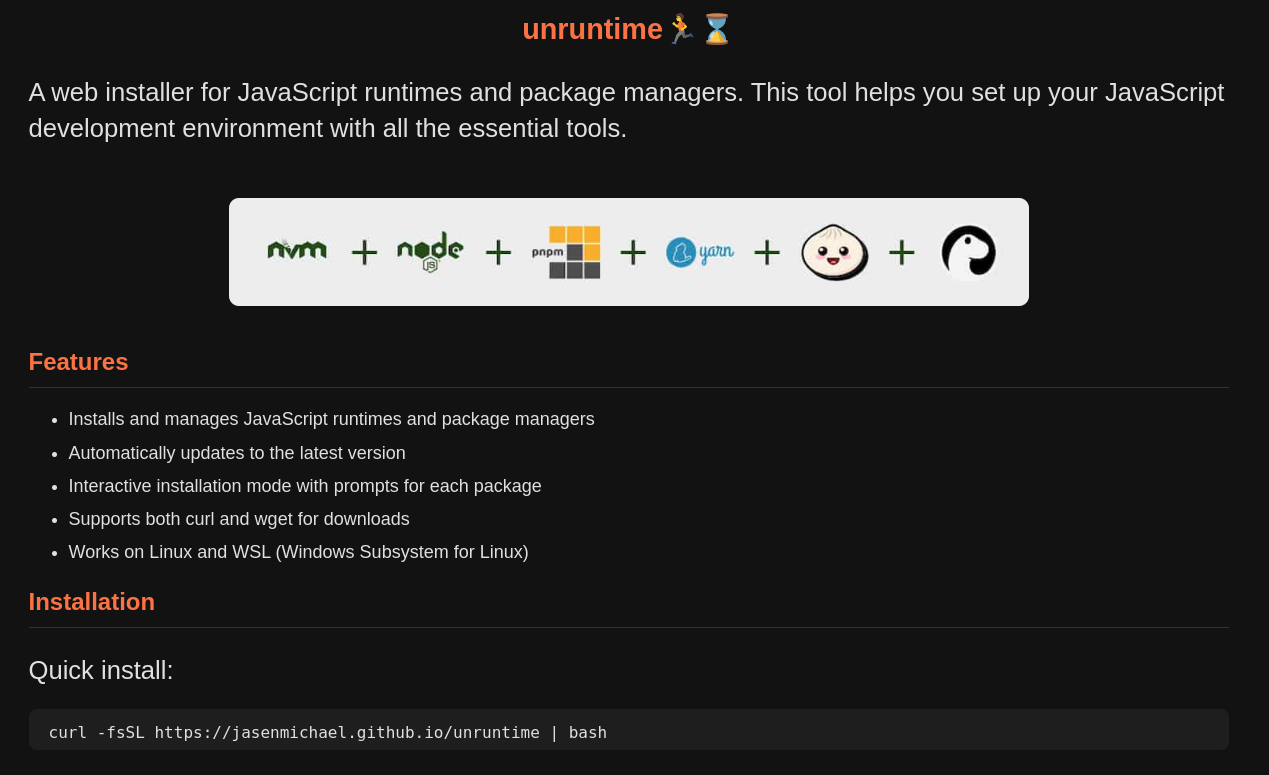
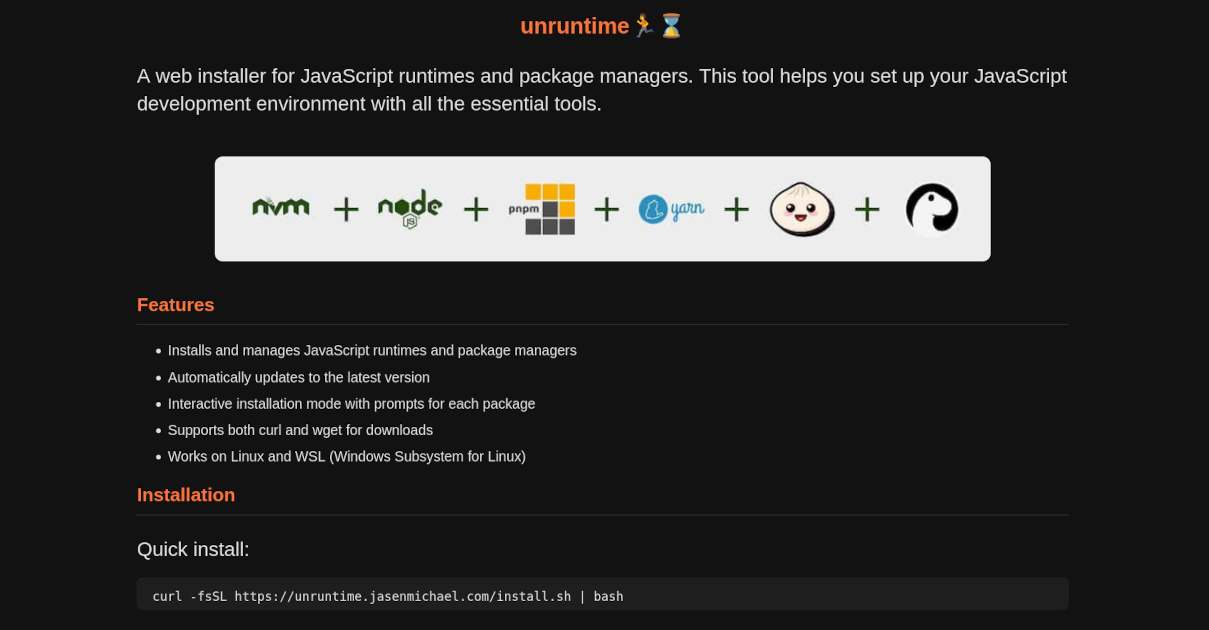
docs: update domain

diff --git a/docs/template.html b/docs/template.html
@@ -10,18 +10,18 @@
     <meta name="theme-color" content="#121212">
     
     <meta property="og:type" content="website">
-    <meta property="og:url" content="https://jasenmichael.github.io/unruntime/">
+    <meta property="og:url" content="$domain$">
     <meta property="og:title" content="unruntime - JavaScript Runtime Installer">
     <meta property="og:description" content="A web installer for JavaScript runtimes and package managers. Set up your JavaScript development environment with essential tools.">
-    <meta property="og:image" content="https://jasenmichael.github.io/unruntime/og-image.png">
+    <meta property="og:image" content="$domain$/og-image.png">
 
     <meta name="twitter:card" content="summary_large_image">
-    <meta name="twitter:url" content="https://jasenmichael.github.io/unruntime/">
+    <meta name="twitter:url" content="$domain$">
     <meta name="twitter:title" content="unruntime - JavaScript Runtime Installer">
     <meta name="twitter:description" content="A web installer for JavaScript runtimes and package managers. Set up your JavaScript development environment with essential tools.">
-    <meta name="twitter:image" content="https://jasenmichael.github.io/unruntime/og-image.png">
+    <meta name="twitter:image" content="$domain$/og-image.png">
     
-    <link rel="icon" type="image/png" href="https://jasenmichael.github.io/unruntime/favicon-96x96.png" sizes="96x96" />
+    <link rel="icon" type="image/png" href="$domain$/favicon-96x96.png" sizes="96x96" />
     
     <title>$title$</title>
     <style>
@@ -72,12 +72,8 @@
       li { 
         margin-bottom: 8px; 
       }
-      
-      /* Better spacing */
       p { margin-bottom: 1.2rem; }
       section { margin-bottom: 2rem; }
-      
-      /* Make links more visible for dark mode */
       a { 
         color: #8ab4f8;
         text-decoration: none;
@@ -87,7 +83,6 @@
         text-decoration: underline;
         color: #bb86fc;
       }
-
       pre {
         display: block;
         background-color: #1e1e1e;
@@ -99,30 +94,24 @@
         font-family: 'JetBrains Mono', 'Fira Code', 'SF Mono', Menlo, Consolas, monospace;
         font-size: 16px;
       }
-
       code {
         font-family: inherit;
         color: inherit;
       }
-
       pre > code {
         display: block;
         padding: 0;
       }
-
       pre > code > span {
         display: block;
         line-height: 0.2;
         margin: 0;
         padding: 0;
       }
-
       pre > code > span > span {
         display: inline;
         white-space: pre;
       }
-
-      /* Dark mode for horizontal rules */
       hr {
         border-color: #333;
         margin: 2rem 0;
